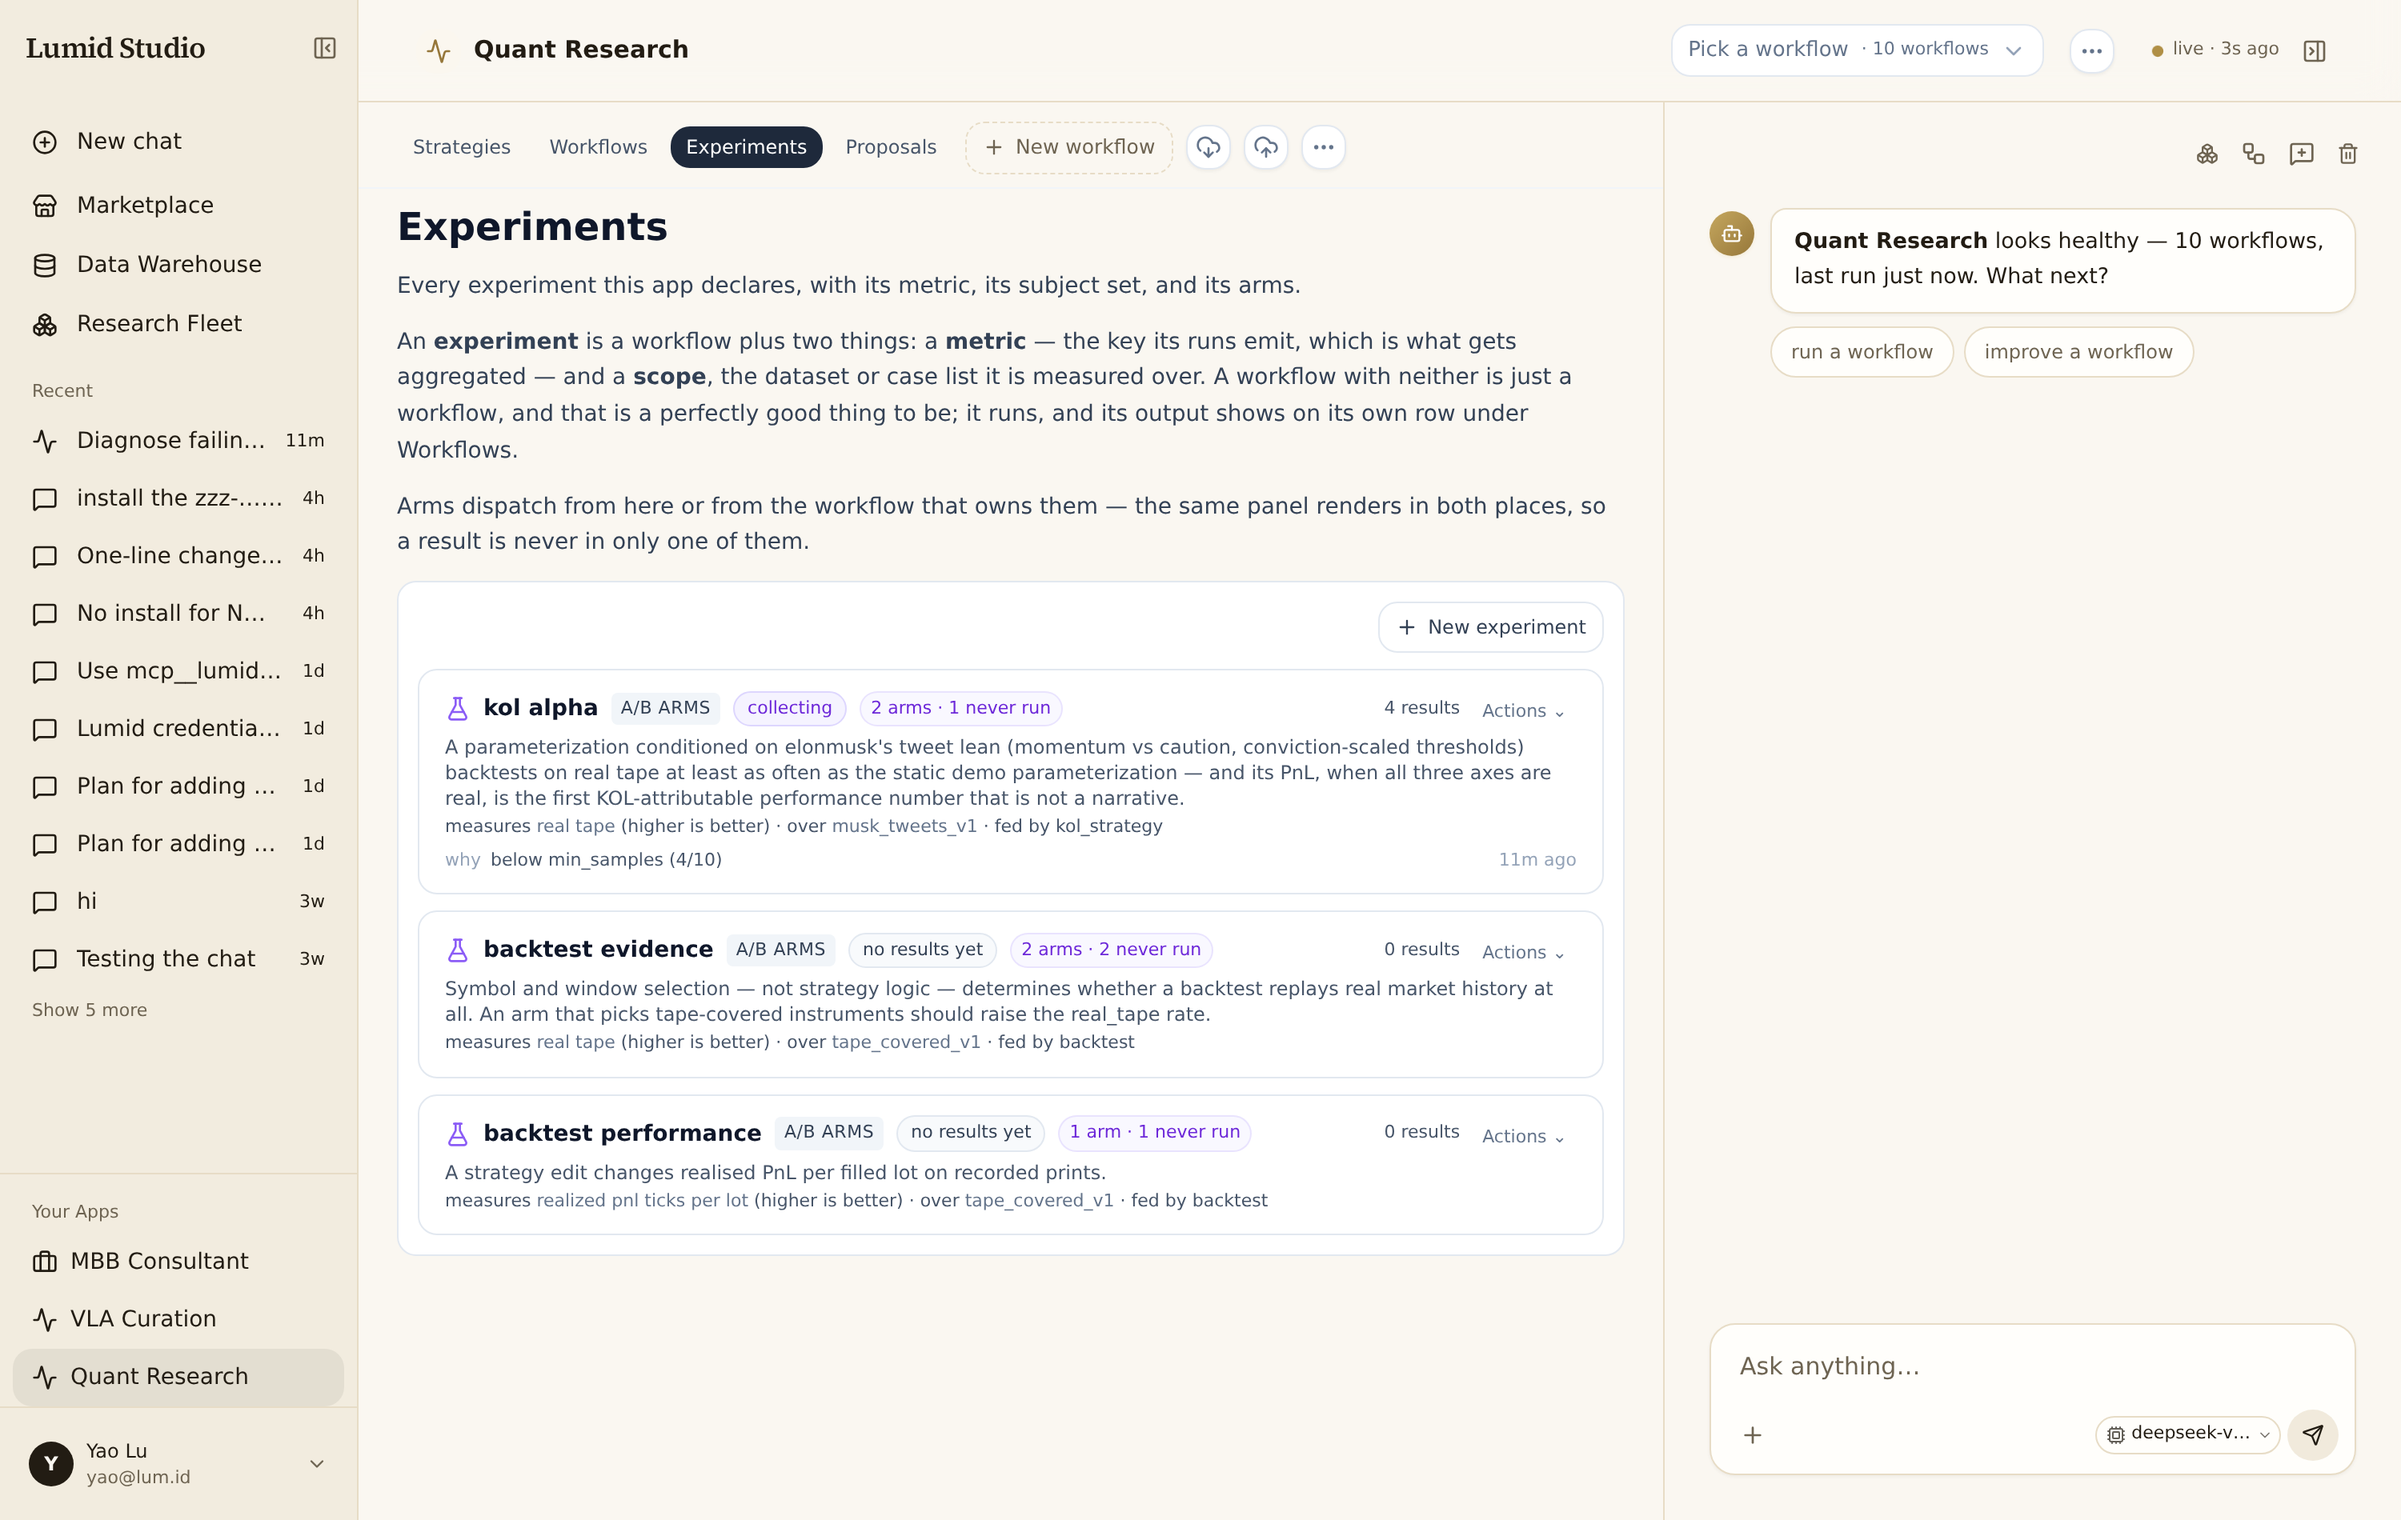
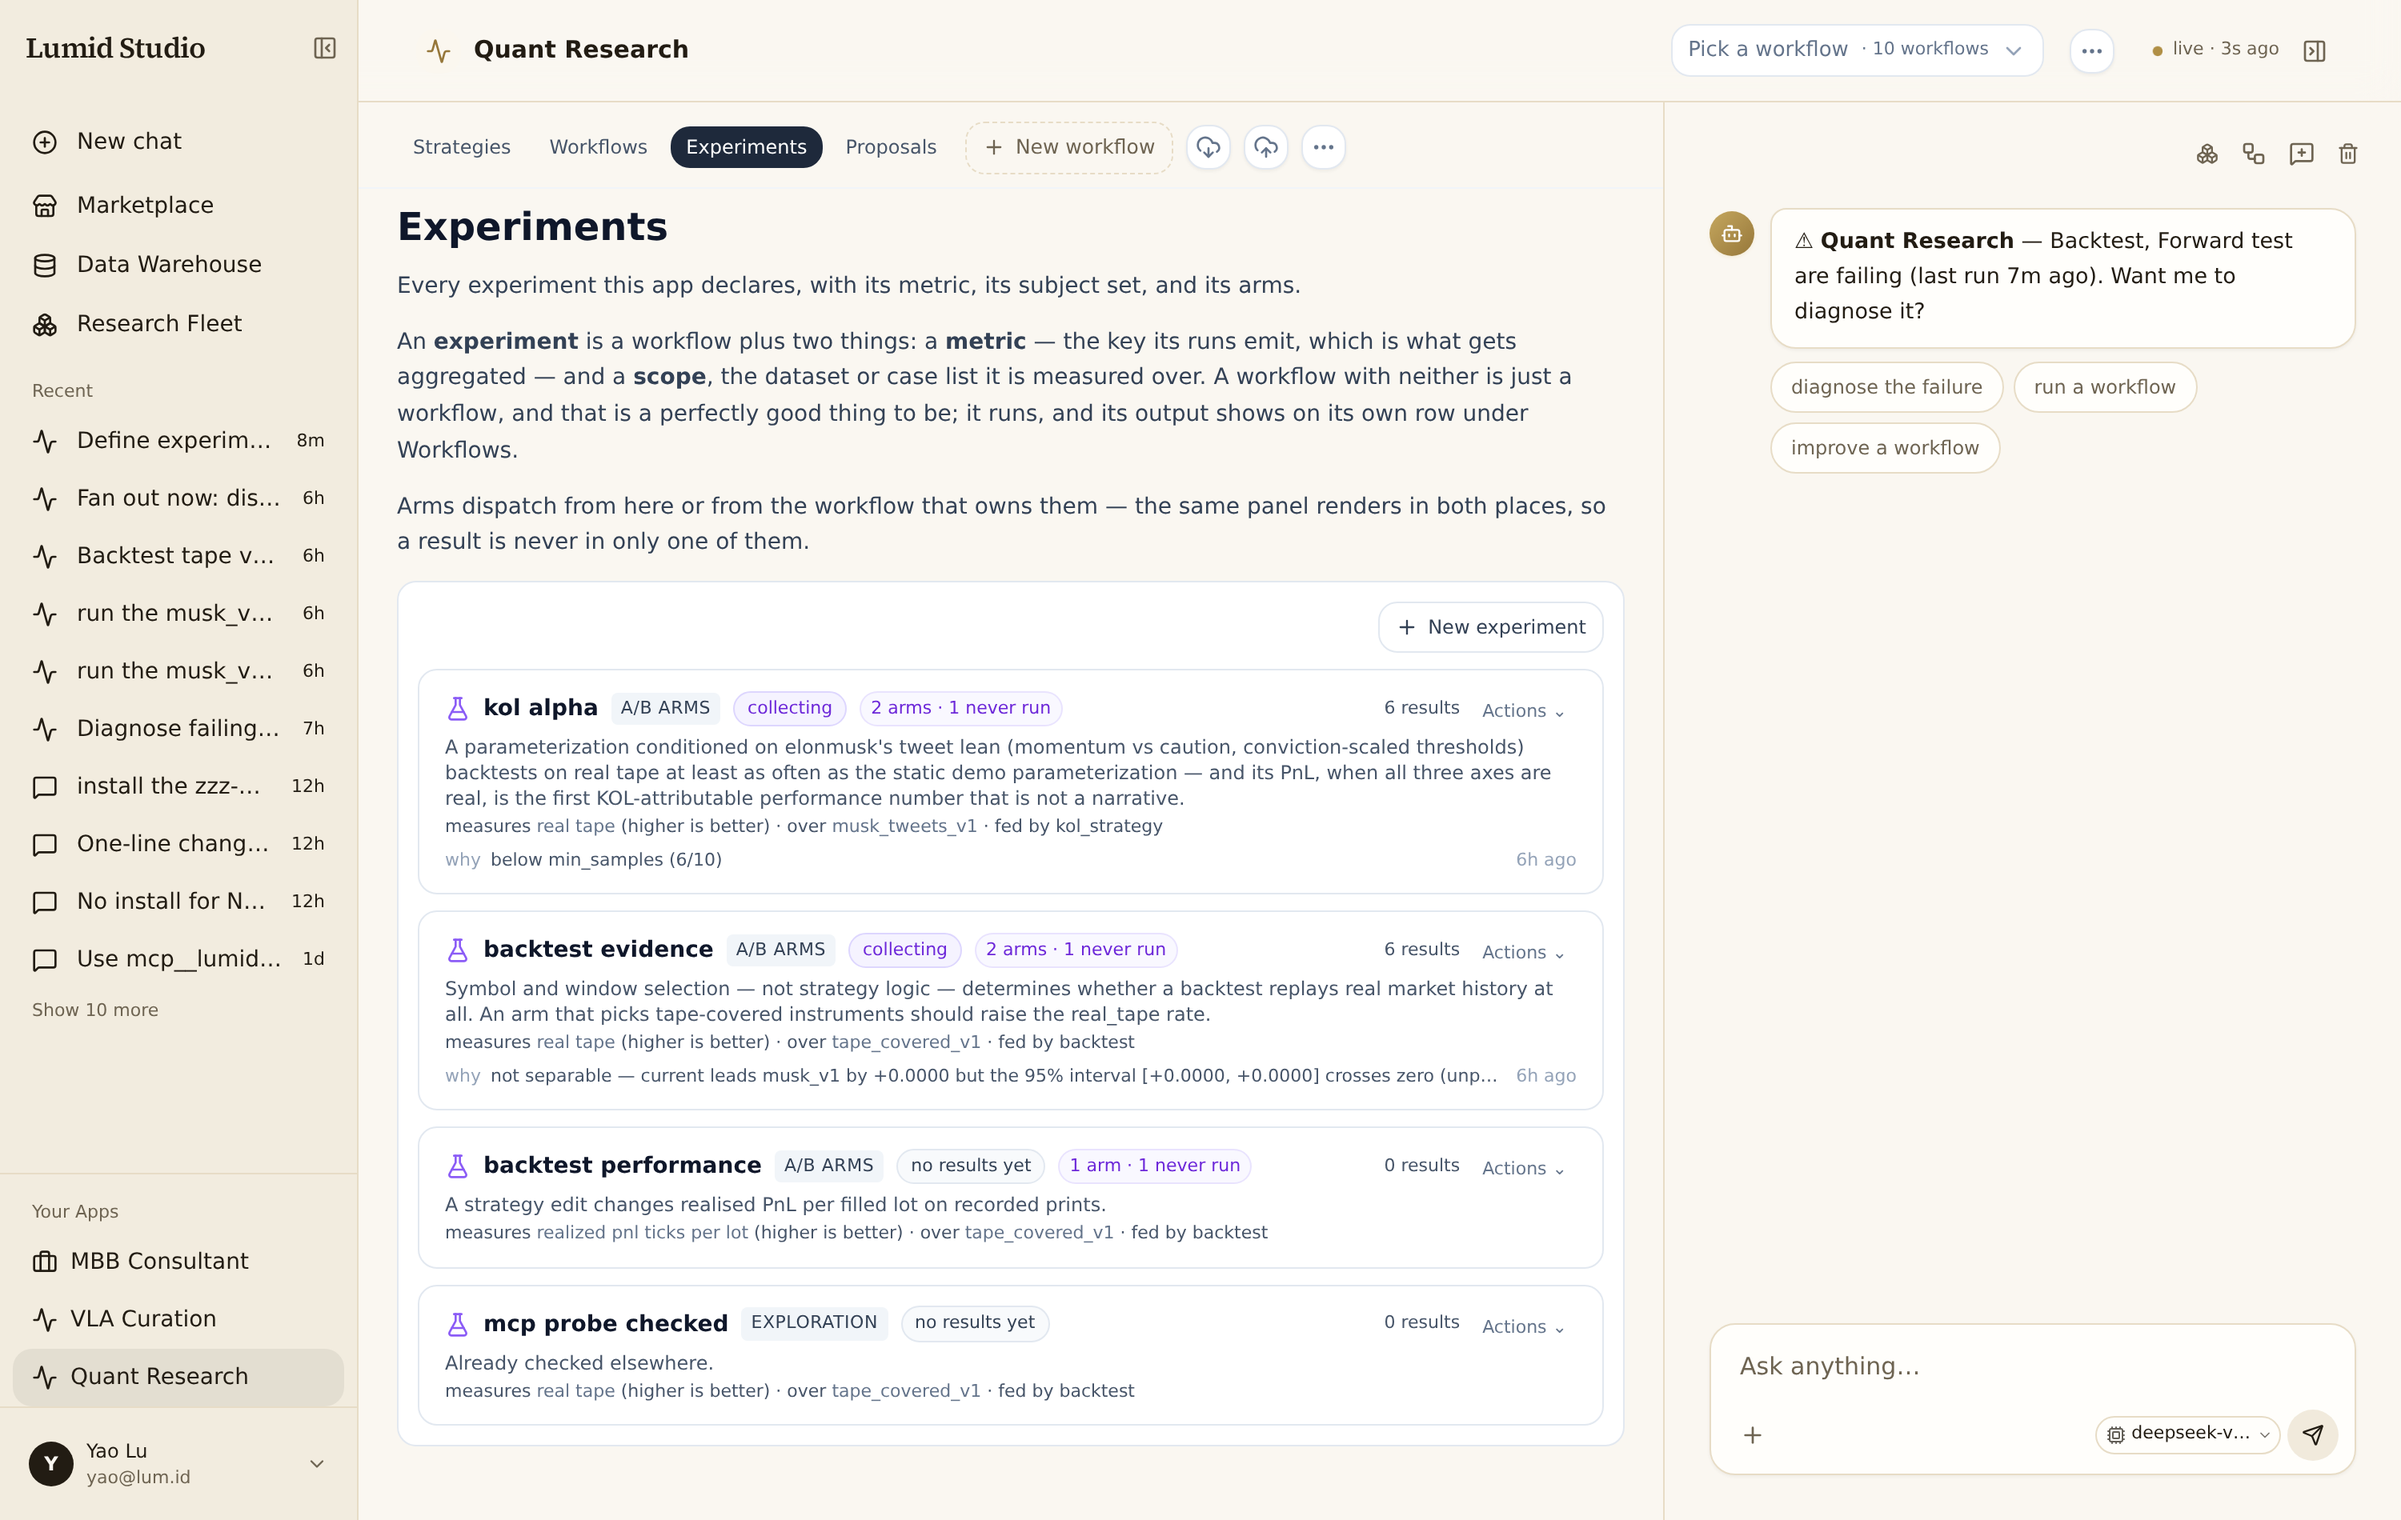
docs: refresh for this cycle — numbers, the Proposals claim, three screenshots
Applying the rule that a cycle is not finished when the code ships, it is
finished when the docs describe what shipped. Everything here went stale during
tonight's own cycle.

**Numbers.** kol_alpha moved while the section describing it did not:
`4 of 7 rows` -> `6 of 12`, `best_n = 4` -> `6`, `below min_samples (4/10)` ->
`(6/10)`, and "Four rows carry real_tape" -> six. The captions carried the old
figures too. This is the second time this section has rotted on exact counts,
which is why the cohort note above it says to expect your own numbers to differ.

**Proposals.** The table still told readers to "accept or reject" a proposal and
said "accepting one is what turns a proposal into arms". There is no accept
control — not in the UI, not in me.ts, not in identity, not in the app's
commands. It is a reading surface; you turn a candidate into an experiment by
DECLARING it, with the Measurement form or from the chat rail. Verified by doing
it: mcp_probe_checked is now a real experiment (kind explore, metric real_tape,
dataset tape_covered_v1).

This correction was written during the previous cycle and never landed — the
edit sat in a worktree that was not the one committed, and `git log -S` finds no
trace of it on dev. Exactly the drift this rule exists to catch.

**The scope guard.** A Proposals candidate is now held to BOTH define-time
guards. One with no dataset_id and no cases used to verdict `will_collect` —
[…]

diff --git a/public/docs/workflows.md b/public/docs/workflows.md
@@ -49,6 +49,15 @@ Two guards fire at define time, and both refuse rather than warn:
 | the metric | *"a loop WITHOUT a metric is a workflow, not an experiment"* |
 | the scope | *"a threshold counted over an undefined population cannot be interpreted"* |
 
+**A Proposals candidate is held to the same two guards.** It used to be held to
+only one of them: a candidate with no `dataset_id` and no `cases` verdicted
+`will_collect` — "nothing found that would stop this recording rows" — and then
+hit the scope guard the moment anyone tried to declare it. Measured 2026-09-21,
+and the scope had to be invented by reading sibling experiments. A verdict that
+calls a suggestion actionable when it cannot be accepted is worse than no
+verdict, so a scope-less candidate now reads `will_be_invisible` with *no
+dataset_id, cases or fixture* as the reason.
+
 A third guard **warns** instead. If an arm names a model the gateway does not
 serve, you are told at define time:
 
@@ -123,7 +132,7 @@ tenants before it existed.
 
 Open a workflow row to see what a run produced.
 
-![KOL strategy's detail: kol_alpha under Metric & arms with its `why below min_samples (4/10)`, the Outputs tier reporting that the last run recorded no artifact, and the run tree.](/docs/img/experiments-workflows.png)
+![KOL strategy's detail: kol_alpha under Metric & arms with its `why below min_samples (6/10)`, the Outputs tier reporting that the last run recorded no artifact, and the run tree.](/docs/img/experiments-workflows.png)
 
 - **Metric & arms** — the experiment this loop feeds, in place, so a result is
   never in only one of the two tabs.
@@ -352,7 +361,7 @@ An experiment reports what you declared. Reading it is still your job.
 parameterization survives recorded market history. Same machinery, and almost
 nothing else in common with the one above.
 
-![kol_alpha on the Experiments tab — collecting, 2 arms with 1 never run, 4 results.](/docs/img/experiments-kol.png)
+![kol_alpha on the Experiments tab — collecting, 2 arms with 1 never run, 6 results.](/docs/img/experiments-kol.png)
 
 The counts below are from a cohort measured **2026-09-21**; an earlier cohort
 this section was written against had been lost, and re-running `musk_v1`
@@ -378,7 +387,7 @@ that before anything measures how good it is.
 
 Only `poll` emits the declared metric, so every `generate` row carries none of
 it and `evaluate()` skips them. That is correct — and the card says so: the
-results chip reads **`4 of 7 rows`** on the cohort above, and hovering it lists
+results chip reads **`6 of 12 rows`** on the cohort above, and hovering it lists
 the keys the dropped rows *do* carry. Until recently only the *all*-zero case was explained, so a partial
 drop like this one was invisible; across the estate 364 of 1,558 rows are in
 that position. Ask the app and you get the same list:
@@ -397,11 +406,11 @@ Two reasons, both visible on the card:
 
 ```
 success_criteria:  best_n >= 10 and delta_pp >= 0
-best_n = 4         2 arms · 1 never run
+best_n = 6         2 arms · 1 never run
 ```
 
-- **Not enough resolved polls.** Four rows carry `real_tape`, all of them `0` —
-  a mean of 0.00, and the card says `below min_samples (4/10)`. None of these
+- **Not enough resolved polls.** Six rows carry `real_tape`, all of them `0` —
+  a mean of 0.00, and the card says `below min_samples (6/10)`. None of these
   backtests replayed recorded prints at all, which is the metric doing its job:
   it is a gate on whether a result deserves to exist, and right now it is
   answering no. That is a finding about the strategy's symbol and window

diff --git a/public/docs/first-run.md b/public/docs/first-run.md
@@ -120,7 +120,7 @@ Afterwards it appears in the sidebar with **four tabs**:
 | **Strategies** | everything you have registered — start here. Deploy, and each row's actions run a Backtest / Forward test / Discuss |
 | **Workflows** | every loop the app runs, one row each — Backtest, Forward test, Analyze, and the tweet-driven Kol strategy. Open a row for its runs |
 | **Experiments** | the status surface for arms: which arm is ahead, on how many samples, and whether the verdict is being withheld. See [Workflows & experiments](/studio/docs/workflows) |
-| **Proposals** | candidate experiments staged for you to accept or reject. Nothing here has run yet — accepting one is what turns a proposal into arms on **Experiments** |
+| **Proposals** | what several planners suggested running next, each with a verdict on whether it would actually collect rows. It is a **reading** surface — there is no accept button. You turn one into a real experiment by declaring it: the **Measurement** form on a Workflows row, or ask the rail to define it (*"declare the mcp_probe_checked proposal as an experiment"*) |
 
 There is deliberately no separate Backtest / Forward / Runtime tab: those are
 loops, so they live as rows on **Workflows**. Open a run from any row to see
